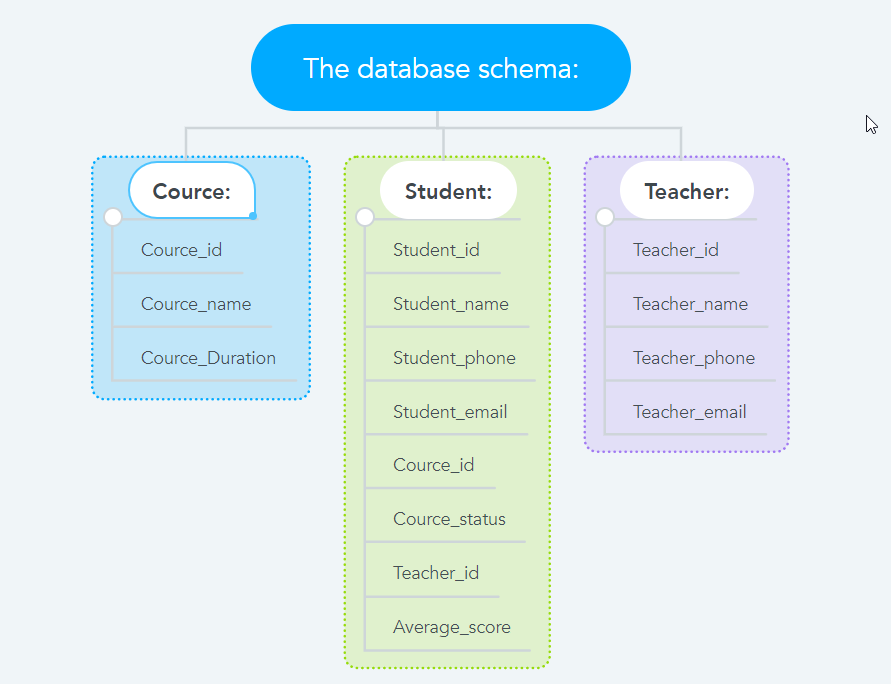
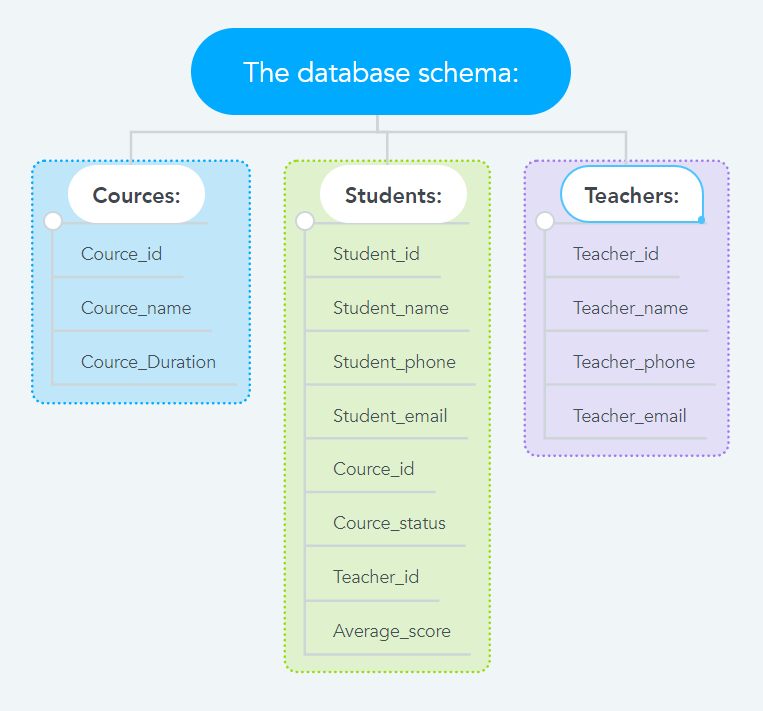
add module_7_task_7_1_part1_5

Changed region(s): [[0.0301, 0.1535, 0.9646, 0.9825], [0.2412, 0.0307, 0.7536, 0.1842]]

diff --git a/m7/task7.1/readme.md b/m7/task7.1/readme.md
@@ -136,6 +136,58 @@ mysql> show databases;
 
 5. Fill in tables. 
 
+![Image alt](img/module_7_task_7_1_part1_5.png)
+
+```
+mysql> use TrainingEpam;
+
+mysql> CREATE TABLE Students(
+    Student_id INT NOT NULL,
+    Student_name VARCHAR(100) NOT NULL,
+    Student_phone BIGINT NOT NULL,
+    Student_email VARCHAR(100) NOT NULL,
+    Cource_id INT NOT NULL,
+    Cource_status enum('on the go','completed'),
+    Teacher_id INT NOT NULL,
+    Average_score INT NOT NULL);
+
+mysql> show tables;
+
+mysql> INSERT INTO Students(Student_id, Student_name, Student_phone, Student_email, Cource_id, Cource_status, Teacher_id, Average_score) VALUES(1, "Valery Yurchenko", 380633753653, "vyurchenko1986@gmail.com", 1, 'completed', 1, 99);
+mysql> INSERT INTO Students(Student_id, Student_name, Student_phone, Student_email, Cource_id, Cource_status, Teacher_id, Average_score) VALUES(2, "Veronika Krasilia", 380633753002, "vkrasilia@gmail.com", 1, 'completed', 3, 64);
+mysql> INSERT INTO Students(Student_id, Student_name, Student_phone, Student_email, Cource_id, Cource_status, Teacher_id, Average_score) VALUES(3, "Viacheslav Chudnov", 380633753003, "v.goodinov@gmail.com", 2, 'on the go', 3, 77);
+mysql> INSERT INTO Students(Student_id, Student_name, Student_phone, Student_email, Cource_id, Cource_status, Teacher_id, Average_score) VALUES(4, "Vitaliy Burbela", 380633753004, "vitaliybravo@gmail.com", 1, 'completed', 2, 91);
+mysql> INSERT INTO Students(Student_id, Student_name, Student_phone, Student_email, Cource_id, Cource_status, Teacher_id, Average_score) VALUES(5, "Vitaliy Belyh", 380633753005, "v.bh@ukr.net", 1, 'completed', 2, 44);
+mysql> INSERT INTO Students(Student_id, Student_name, Student_phone, Student_email, Cource_id, Cource_status, Teacher_id, Average_score) VALUES(6, "Vitaly Morozov", 380633753006, "morozv.vitaly@gmail.com", 2, 'on the go', 3, 80);
+
+mysql> CREATE TABLE Cources(
+    Cource_id INT NOT NULL,
+    Cource_name VARCHAR(100) NOT NULL,
+    Cource_Duration INT NOT NULL);
+
+mysql> INSERT INTO Cources(Cource_id, Cource_name, Cource_Duration) VALUES(1, "DevOps", 120);
+mysql> INSERT INTO Cources(Cource_id, Cource_name, Cource_Duration) VALUES(2, "Java", 60);
+mysql> INSERT INTO Cources(Cource_id, Cource_name, Cource_Duration) VALUES(3, "JavaScript", 90);
+mysql> INSERT INTO Cources(Cource_id, Cource_name, Cource_Duration) VALUES(4, "Web", 60);
+
+mysql> select * from Cources;
+
+mysql> CREATE TABLE Teachers(
+    Teacher_id INT NOT NULL,
+    Teacher_name VARCHAR(100) NOT NULL,
+    Teacher_phone BIGINT NOT NULL,
+    Teacher_email VARCHAR(100) NOT NULL);
+
+mysql> INSERT INTO Teachers(Teacher_id, Teacher_name, Teacher_phone, Teacher_email) VALUES(1, "Aleksandr Pokatilov", 380667865653, "sasha.pokatilov@gmail.com");
+mysql> INSERT INTO Teachers(Teacher_id, Teacher_name, Teacher_phone, Teacher_email) VALUES(2, "Oleksandr Klykov", 380503786453, "klykovaleksandr@ukr.net");
+mysql> INSERT INTO Teachers(Teacher_id, Teacher_name, Teacher_phone, Teacher_email) VALUES(3, "Richard Handrix", 380735853653, "0evel00@gmail.com");
+
+mysql> show tables;
+mysql> select * from Cources;
+mysql> select * from Students;
+mysql> select * from Teachers;
+```
+
 6. Construct and execute SELECT operator with WHERE, GROUP BY and ORDER BY. 
 
 7. Execute other different SQL queries DDL, DML, DCL. 
